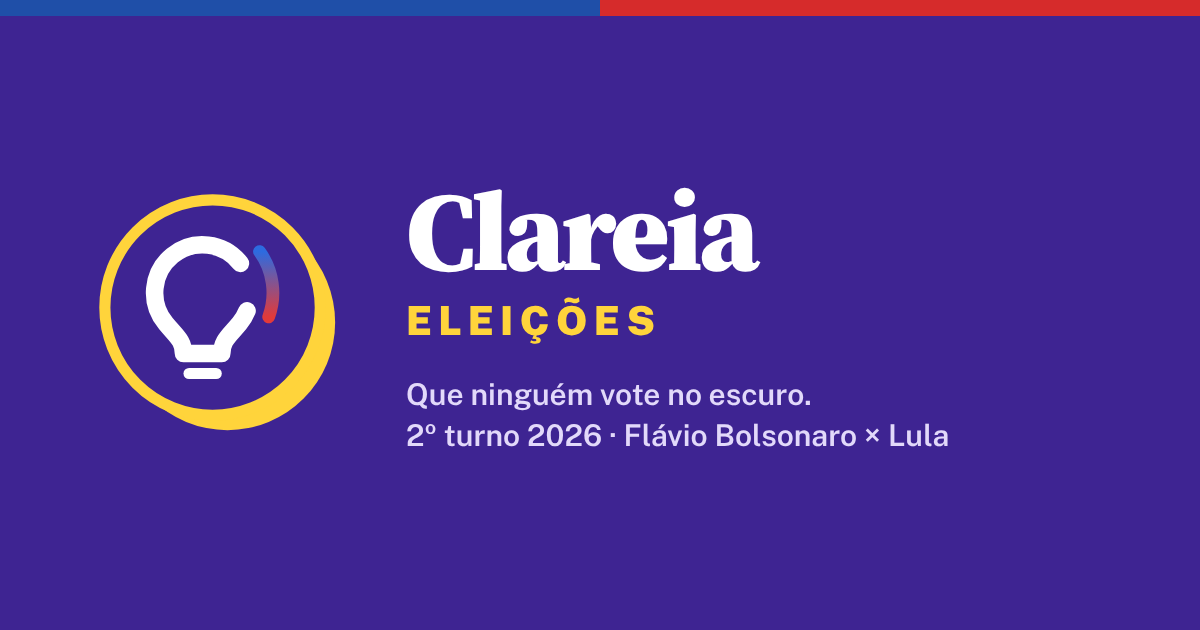
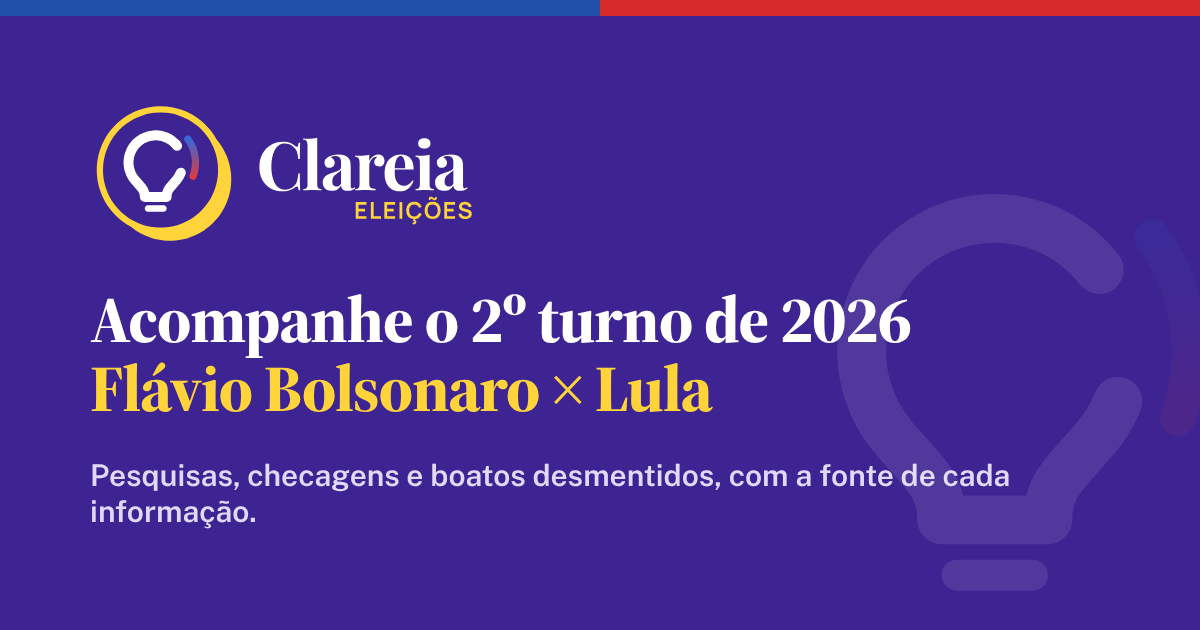
Site: título e descrições da Clareia, dados estruturados (schema.org), llms.txt, resumo sem JavaScript, nova imagem de compartilhamento e sombras sem corte
Claude-Session: https://claude.ai/code/session_01EGx4eugVc4rRKnokUTVgvS

Changed region(s): [[0.0617, 0.1508, 0.8633, 0.8444]]

diff --git a/index.html b/index.html
@@ -3,15 +3,22 @@
 <head>
 <meta charset="utf-8">
 <meta name="viewport" content="width=device-width, initial-scale=1, viewport-fit=cover">
-<title>Clareia Eleições · 2º turno 2026: Flávio Bolsonaro × Lula</title>
-<meta name="description" content="Pesquisas, debate ao vivo, redes sociais, agenda das campanhas, checagem de fatos e boatos desmentidos do 2º turno da eleição presidencial de 2026, em linguagem simples e com link para cada fonte.">
-<meta property="og:title" content="Clareia Eleições · 2º turno 2026: Flávio Bolsonaro × Lula">
+<title>Clareia Eleições · Acompanhe o 2º turno de 2026: Flávio Bolsonaro × Lula</title>
+<meta name="description" content="Clareia Eleições: acompanhe o 2º turno de 2026 entre Flávio Bolsonaro e Lula. Pesquisas, checagens, boatos desmentidos, agenda e debates, em linguagem simples e com a fonte de cada informação.">
+<meta name="robots" content="index, follow, max-image-preview:large, max-snippet:-1">
+<meta name="author" content="Clareia Eleições">
+<meta property="og:locale" content="pt_BR">
+<meta property="og:title" content="Clareia Eleições · Acompanhe o 2º turno de 2026">
 <meta property="og:site_name" content="Clareia Eleições">
 <meta property="og:image" content="https://aluadocoelho.github.io/Eleicoes-de-2026/og-image.png">
 <meta property="og:image:width" content="1200">
 <meta property="og:image:height" content="630">
+<meta property="og:image:alt" content="Logo da Clareia Eleições: que ninguém vote no escuro. 2º turno 2026, Flávio Bolsonaro × Lula">
 <meta name="twitter:card" content="summary_large_image">
-<meta property="og:description" content="Que ninguém vote no escuro. Agregador de pesquisas, checagens, boatos desmentidos e agenda do 2º turno, com a fonte de cada informação e os dois lados com o mesmo critério.">
+<meta name="twitter:title" content="Clareia Eleições · Acompanhe o 2º turno de 2026">
+<meta name="twitter:description" content="Pesquisas, checagens, boatos desmentidos e agenda de Flávio Bolsonaro e Lula, com a fonte de cada informação. Que ninguém vote no escuro.">
+<meta name="twitter:image" content="https://aluadocoelho.github.io/Eleicoes-de-2026/og-image.png">
+<meta property="og:description" content="Que ninguém vote no escuro. Pesquisas, checagens, boatos desmentidos e agenda do 2º turno entre Flávio Bolsonaro e Lula, com a fonte de cada informação e os dois lados com o mesmo critério.">
 <meta property="og:type" content="website">
 <meta property="og:url" content="https://aluadocoelho.github.io/Eleicoes-de-2026/">
 <link rel="canonical" href="https://aluadocoelho.github.io/Eleicoes-de-2026/">
@@ -776,9 +783,16 @@ details.el-details[open]>summary::after{transform:rotate(-135deg) translateY(-1p
   .el-sticky>header .el-logo{display:none!important}
   .el-drw{left:auto;right:0;border-right:0;border-left:3px solid var(--ink);transform:translateX(105%)}
 }
+
+/* Sombras nunca cortadas: o topo fixo e o quadro de boatos têm folga para a sombra de 4 a 6 px */
+.el-sticky,.el-sticky.el-stuck{padding-bottom:8px}
+.el-scroll.el-bo-wrap{overflow:visible!important;padding:0 6px 6px 0}
+@media (max-width:400px){.el-seg .el-chip{padding:6px 3px;white-space:normal;line-height:1.15;min-width:0;overflow-wrap:anywhere}}
 </style>
+<script type="application/ld+json">{"@context":"https://schema.org","@graph":[{"@type":"Organization","@id":"https://aluadocoelho.github.io/Eleicoes-de-2026/#org","name":"Clareia Eleições","alternateName":"Verita Eleições","url":"https://aluadocoelho.github.io/Eleicoes-de-2026/","logo":{"@type":"ImageObject","url":"https://aluadocoelho.github.io/Eleicoes-de-2026/icon-512.png","width":512,"height":512},"sameAs":["https://www.instagram.com/clareiaeleicoes/","https://github.com/aluadocoelho/Eleicoes-de-2026"],"description":"Agregador independente e apartidário de informações sobre as eleições no Brasil, feito com inteligência artificial e revisado por uma pessoa. Não tem relação com partidos, campanhas ou institutos de pesquisa."},{"@type":"WebSite","@id":"https://aluadocoelho.github.io/Eleicoes-de-2026/#site","url":"https://aluadocoelho.github.io/Eleicoes-de-2026/","name":"Clareia Eleições","alternateName":["Verita Eleições","Clareia"],"inLanguage":"pt-BR","description":"Acompanhe o 2º turno da eleição presidencial de 2026 entre Flávio Bolsonaro (PL) e Lula (PT): pesquisas de intenção de voto, checagens de falas, boatos desmentidos, agenda dos candidatos, debates ao vivo e redes sociais, sempre com o link da fonte original.","publisher":{"@id":"https://aluadocoelho.github.io/Eleicoes-de-2026/#org"}},{"@type":"WebPage","@id":"https://aluadocoelho.github.io/Eleicoes-de-2026/#pagina","url":"https://aluadocoelho.github.io/Eleicoes-de-2026/","name":"Clareia Eleições: acompanhe o 2º turno de 2026, Flávio Bolsonaro × Lula","inLanguage":"pt-BR","isPartOf":{"@id":"https://aluadocoelho.github.io/Eleicoes-de-2026/#site"},"about":[{"@type":"Event","name":"Eleição presidencial de 2026 no Brasil, 2º turno","startDate":"2026-10-25T08:00:00-03:00","endDate":"2026-10-25T17:00:00-03:00","eventAttendanceMode":"https://schema.org/OfflineEventAttendanceMode","eventStatus":"https://schema.org/EventScheduled","location":{"@type":"Country","name":"Brasil"},"organizer":{"@type":"GovernmentOrganization","name":"Tribunal Superior Eleitoral","url":"https://www.tse.jus.br/"}},{"@type":"Person","name":"Flávio Bolsonaro","affiliation":{"@type":"PoliticalParty","name":"Partido Liberal (PL)"}},{"@type":"Person","name":"Luiz Inácio Lula da Silva","alternateName":"Lula","affiliation":{"@type":"PoliticalParty","name":"Partido dos Trabalhadores (PT)"}}],"description":"Acompanhe o 2º turno da eleição presidencial de 2026 entre Flávio Bolsonaro (PL) e Lula (PT): pesquisas de intenção de voto, checagens de falas, boatos desmentidos, agenda dos candidatos, debates ao vivo e redes sociais, sempre com o link da fonte original.","primaryImageOfPage":"https://aluadocoelho.github.io/Eleicoes-de-2026/og-image.png","publisher":{"@id":"https://aluadocoelho.github.io/Eleicoes-de-2026/#org"}},{"@type":"Dataset","@id":"https://aluadocoelho.github.io/Eleicoes-de-2026/#dados","name":"Dados abertos do 2º turno das eleições presidenciais de 2026","description":"Conjuntos em JSON, atualizados automaticamente ao longo do dia, com link para a fonte de cada linha: Pesquisas de intenção de voto do 2º turno (votos válidos e totais, instituto, amostra e margem); Falas dos candidatos checadas por agências de checagem, com o selo original; Boatos e conteúdos falsos sobre os candidatos desmentidos por checadores ou pelo TSE; Agenda pública diária de Lula e Flávio Bolsonaro; Apoios, decisões da Justiça Eleitoral, debates e estratégia das campanhas; Métricas comparáveis dos dois candidatos nas redes sociais; Momentos e checagens de debates e sabatinas; Grandes eventos do 2º turno: debates, sabatinas e o dia da votação; Correções públicas feitas pela revisão de qualidade.","url":"https://github.com/aluadocoelho/Eleicoes-de-2026","license":"https://creativecommons.org/licenses/by/4.0/","inLanguage":"pt-BR","isAccessibleForFree":true,"creator":{"@id":"https://aluadocoelho.github.io/Eleicoes-de-2026/#org"},"keywords":["eleições 2026","segundo turno","pesquisa eleitoral","checagem de fatos","fake news","Lula","Flávio Bolsonaro","dados abertos"],"spatialCoverage":{"@type":"Country","name":"Brasil"},"temporalCoverage":"2026-10-05/2026-10-27","distribution":[{"@type":"DataDownload","name":"pesquisas.json","encodingFormat":"application/json","contentUrl":"https://aluadocoelho.github.io/Eleicoes-de-2026/data/pesquisas.json"},{"@type":"DataDownload","name":"checagens.json","encodingFormat":"application/json","contentUrl":"https://aluadocoelho.github.io/Eleicoes-de-2026/data/checagens.json"},{"@type":"DataDownload","name":"boatos.json","encodingFormat":"application/json","contentUrl":"https://aluadocoelho.github.io/Eleicoes-de-2026/data/boatos.json"},{"@type":"DataDownload","name":"agenda.json","encodingFormat":"application/json","contentUrl":"https://aluadocoelho.github.io/Eleicoes-de-2026/data/agenda.json"},{"@type":"DataDownload","name":"campanha.json","encodingFormat":"application/json","contentUrl":"https://aluadocoelho.github.io/Eleicoes-de-2026/data/campanha.json"},{"@type":"DataDownload","name":"redes.json","encodingFormat":"application/json","contentUrl":"https://aluadocoelho.github.io/Eleicoes-de-2026/data/redes.json"},{"@type":"DataDownload","name":"aovivo.json","encodingFormat":"application/json","contentUrl":"https://aluadocoelho.github.io/Eleicoes-de-2026/data/aovivo.json"},{"@type":"DataDownload","name":"destaques.json","encodingFormat":"application/json","contentUrl":"https://aluadocoelho.github.io/Eleicoes-de-2026/data/destaques.json"},{"@type":"DataDownload","name":"erratas.json","encodingFormat":"application/json","contentUrl":"https://aluadocoelho.github.io/Eleicoes-de-2026/data/erratas.json"}]}]}</script>
 </head>
 <body>
+<noscript><div style="max-width:720px;margin:24px auto;padding:0 16px;font-family:system-ui,sans-serif;line-height:1.5"><h1>Clareia Eleições: acompanhe o 2º turno de 2026</h1><p>Acompanhe o 2º turno da eleição presidencial de 2026 entre Flávio Bolsonaro (PL) e Lula (PT): pesquisas de intenção de voto, checagens de falas, boatos desmentidos, agenda dos candidatos, debates ao vivo e redes sociais, sempre com o link da fonte original. Que ninguém vote no escuro.</p><p>Esta página precisa de JavaScript para mostrar os dados ao vivo. Os mesmos dados estão abertos, em JSON:</p><ul><li><a href="data/pesquisas.json">Pesquisas de intenção de voto do 2º turno (votos válidos e totais, instituto, amostra e margem)</a></li><li><a href="data/checagens.json">Falas dos candidatos checadas por agências de checagem, com o selo original</a></li><li><a href="data/boatos.json">Boatos e conteúdos falsos sobre os candidatos desmentidos por checadores ou pelo TSE</a></li><li><a href="data/agenda.json">Agenda pública diária de Lula e Flávio Bolsonaro</a></li><li><a href="data/campanha.json">Apoios, decisões da Justiça Eleitoral, debates e estratégia das campanhas</a></li><li><a href="data/redes.json">Métricas comparáveis dos dois candidatos nas redes sociais</a></li><li><a href="data/aovivo.json">Momentos e checagens de debates e sabatinas</a></li><li><a href="data/destaques.json">Grandes eventos do 2º turno: debates, sabatinas e o dia da votação</a></li><li><a href="data/erratas.json">Correções públicas feitas pela revisão de qualidade</a></li></ul><p>A Clareia Eleições (antes Verita Eleições) é independente, sem ligação com partidos, campanhas ou institutos de pesquisa. Instagram: <a href="https://www.instagram.com/clareiaeleicoes/">@clareiaeleicoes</a>. Código e dados: <a href="https://github.com/aluadocoelho/Eleicoes-de-2026">github.com/aluadocoelho/Eleicoes-de-2026</a>.</p></div></noscript>
 <div class="el"><div class="el-wrap">
   <a class="el-skip" href="#conteudo" id="skip-link">Pular para o conteúdo</a>
   <div class="el-vh" id="a11y-live" role="status" aria-live="polite" aria-atomic="true"></div>
